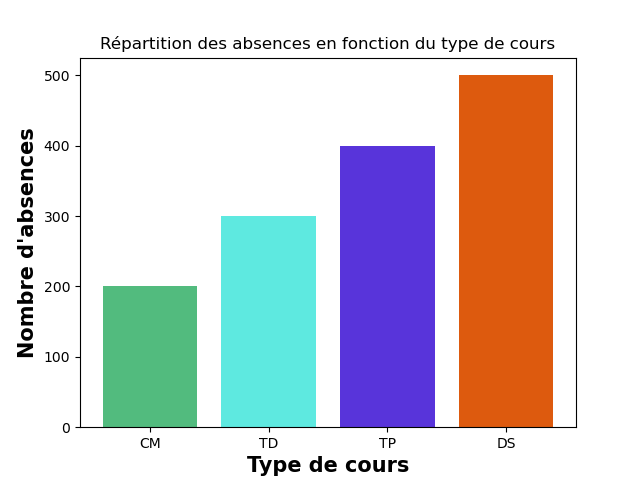
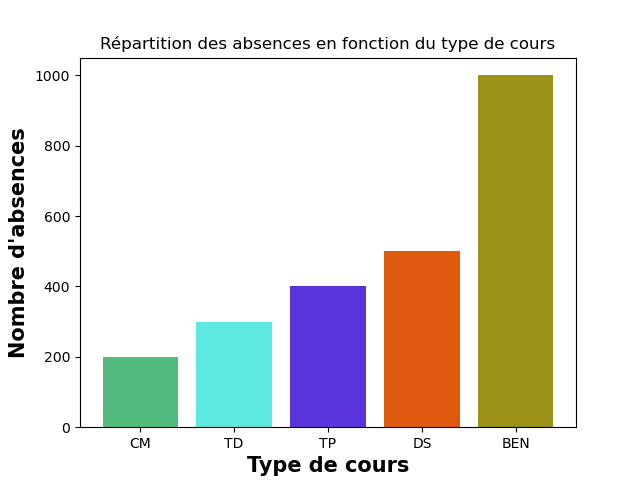
stats#

diff --git a/stats.py b/stats.py
@@ -8,10 +8,10 @@ import datetime
 
 def repartition_absences_par_cours(nb : list[int]):
     
-    # la liste nb est censée contenir 4 éléments : le nombre d'absences aux CM, TD, TP et DS respectivement
+    # la liste nb est censée contenir 5 éléments : le nombre d'absences aux CM, TD, TP, DS et SAE respectivement
     
-    cours = ['CM', 'TD', 'TP', 'DS']
-    couleurs = ["#52BB7E", "#5EE9E0", "#5834DA", "#DD5A0E"]
+    cours = ['CM', 'TD', 'TP', 'DS', 'BEN']
+    couleurs = ["#52BB7E", "#5EE9E0", "#5834DA", "#DD5A0E", "#9B9217"]
 
     plt.bar(cours, nb, color=couleurs)
 
@@ -45,7 +45,7 @@ def repartition_absences_par_heure(nb : list[int]):
 
 def absences_14_derniers_jours(nb : list[int]):
     
-    # la liste nb est censée contenir 6 éléments : le nombre d'absences / jour les 14 derniers jours
+    # la liste nb est censée contenir 14 éléments : le nombre d'absences / jour les 14 derniers jours
 
     plt.plot(nb, color = 'black', linestyle = '-')
 
@@ -62,7 +62,7 @@ def absences_14_derniers_jours(nb : list[int]):
     plt.show()
     
 if __name__ == "__main__":
-    repartition_absences_par_cours([200,300,400,500])
+    repartition_absences_par_cours([200,300,400,500,1000])
     repartition_absences_par_heure([200,300,400,500,600,700])
     absences_14_derniers_jours([1,2,5,3,6,15,1,5,1,4,1,3,10,11])
 
